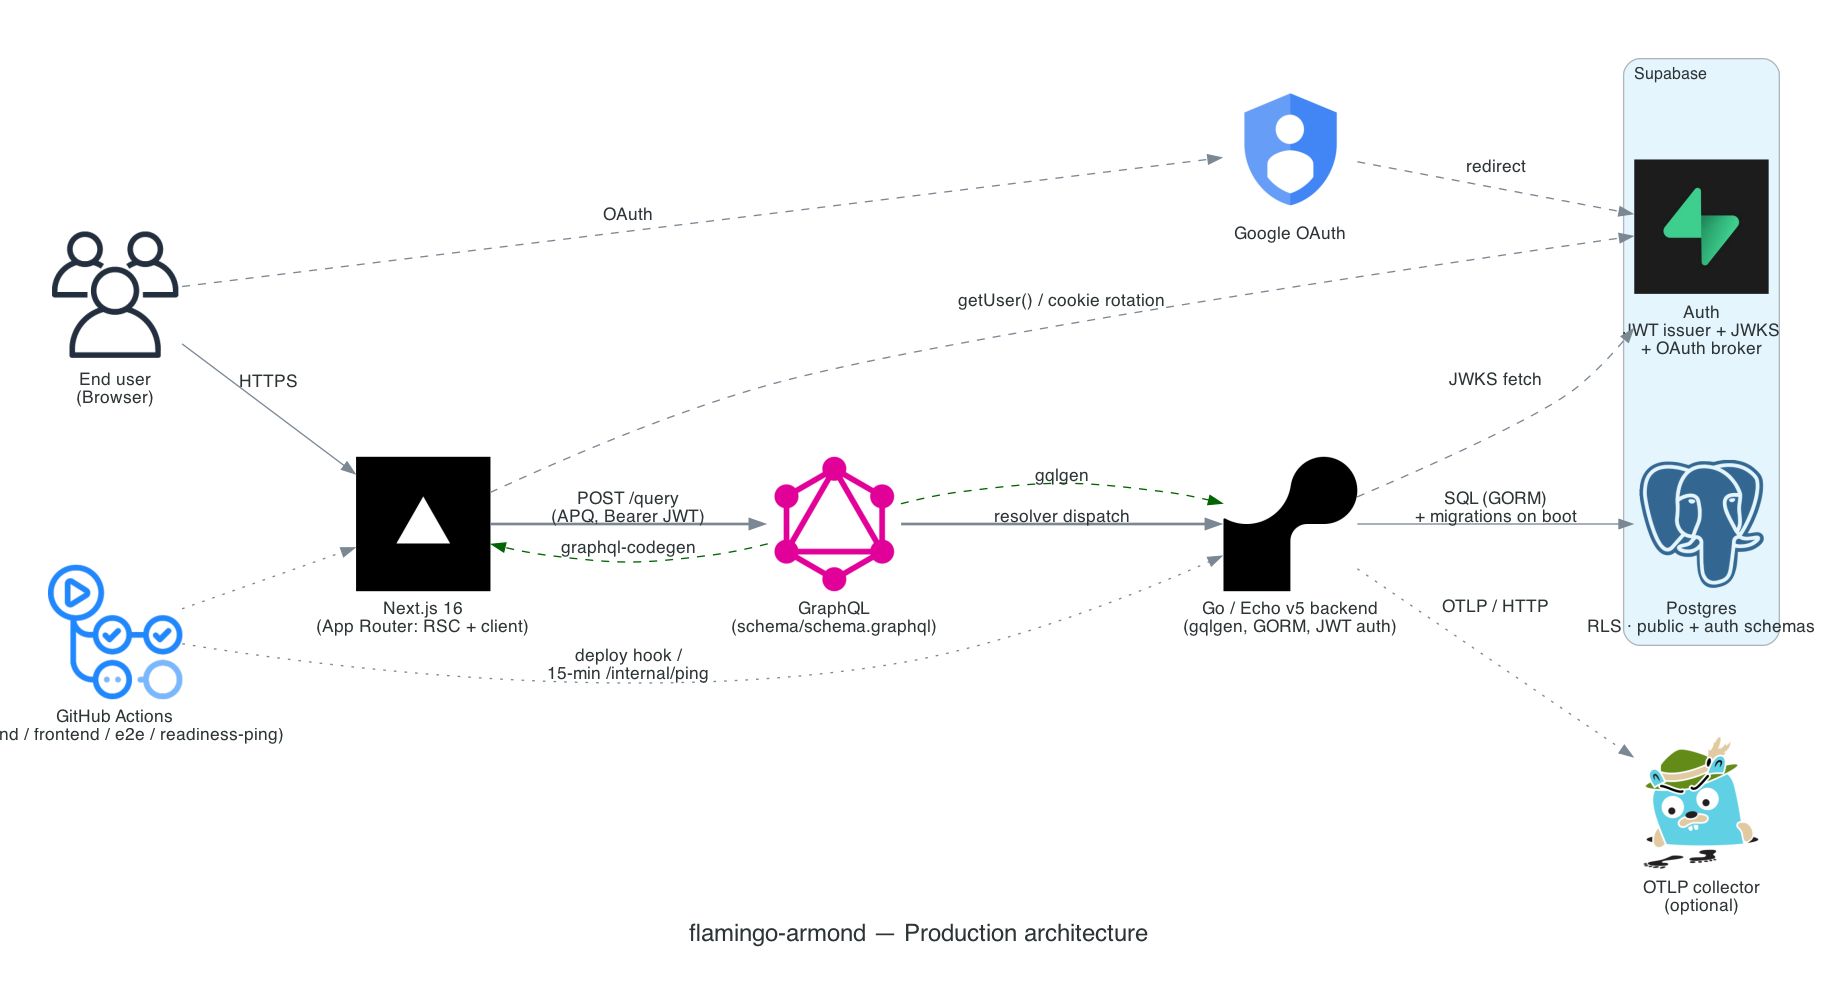
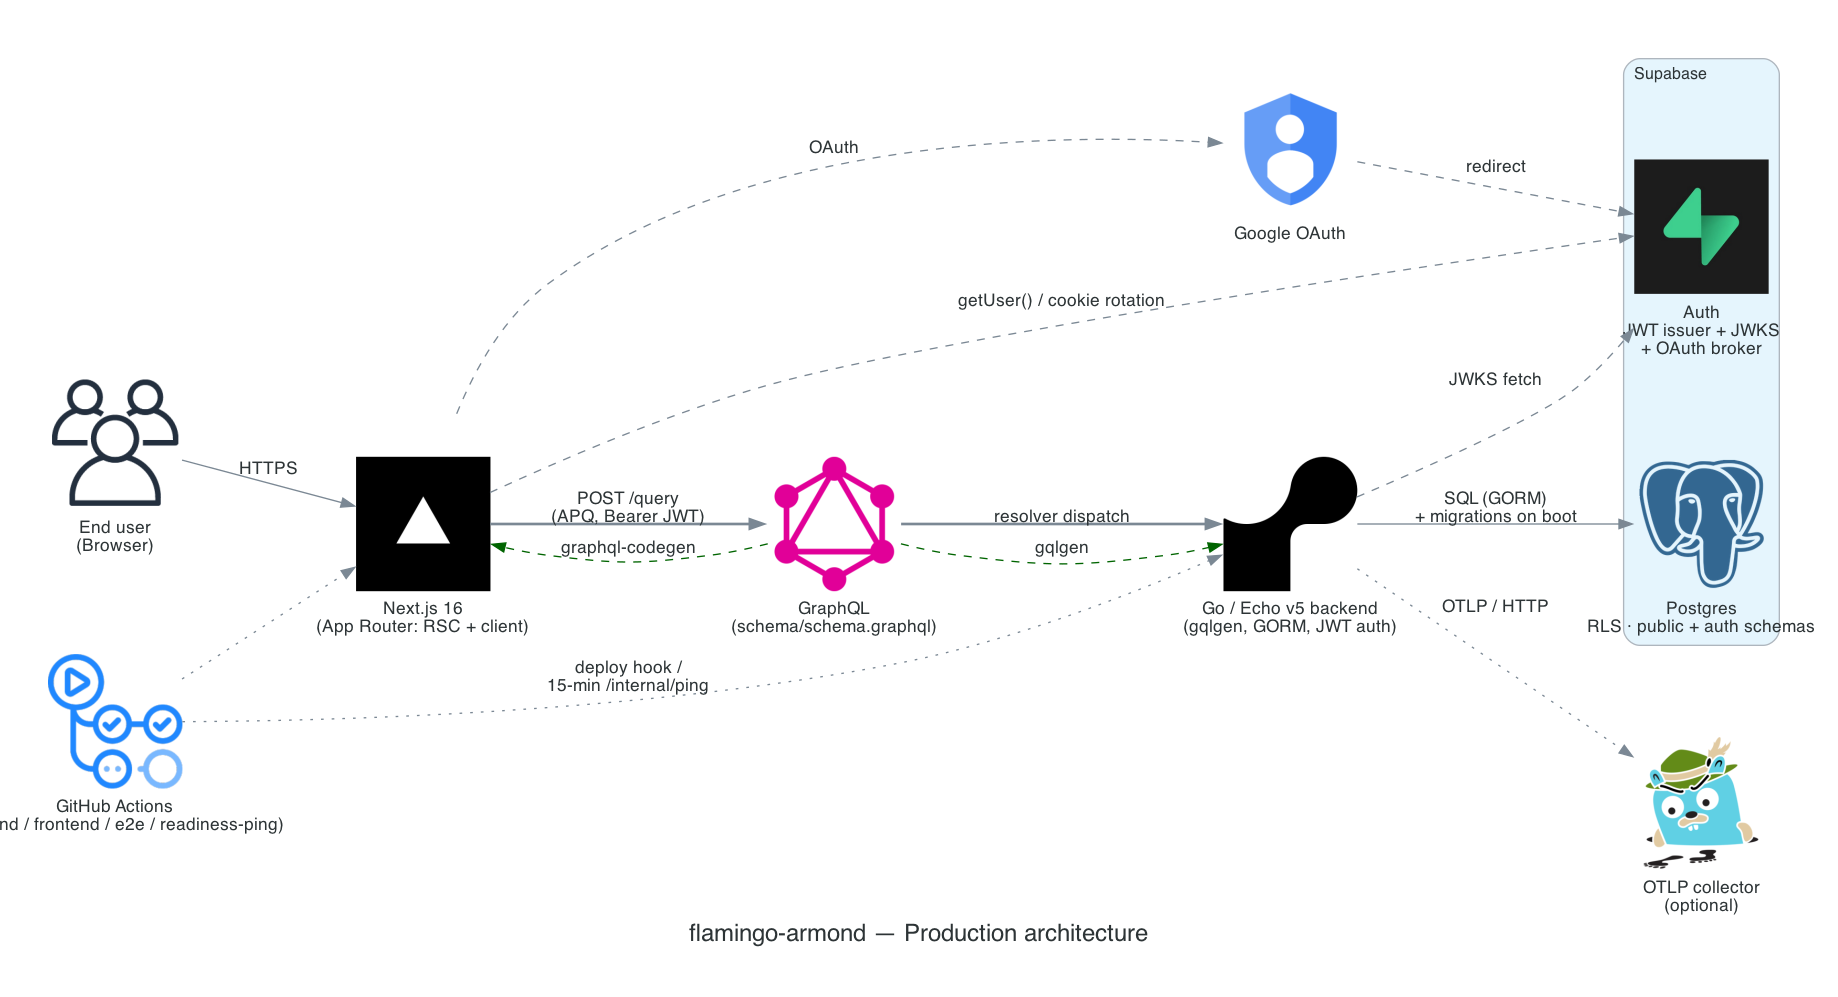
docs: redraw OAuth edge from Vercel to Google in architecture diagram

diff --git a/docs/images/diagram.py b/docs/images/diagram.py
@@ -80,7 +80,7 @@ with Diagram(
 
     # Sign-in / session flow
     user >> Edge(label="HTTPS") >> web
-    user >> Edge(label="OAuth", style="dashed") >> google
+    web >> Edge(label="OAuth", style="dashed") >> google
     google >> Edge(label="redirect", style="dashed") >> sb_auth
     web >> Edge(label="getUser() / cookie rotation", style="dashed") >> sb_auth
 
